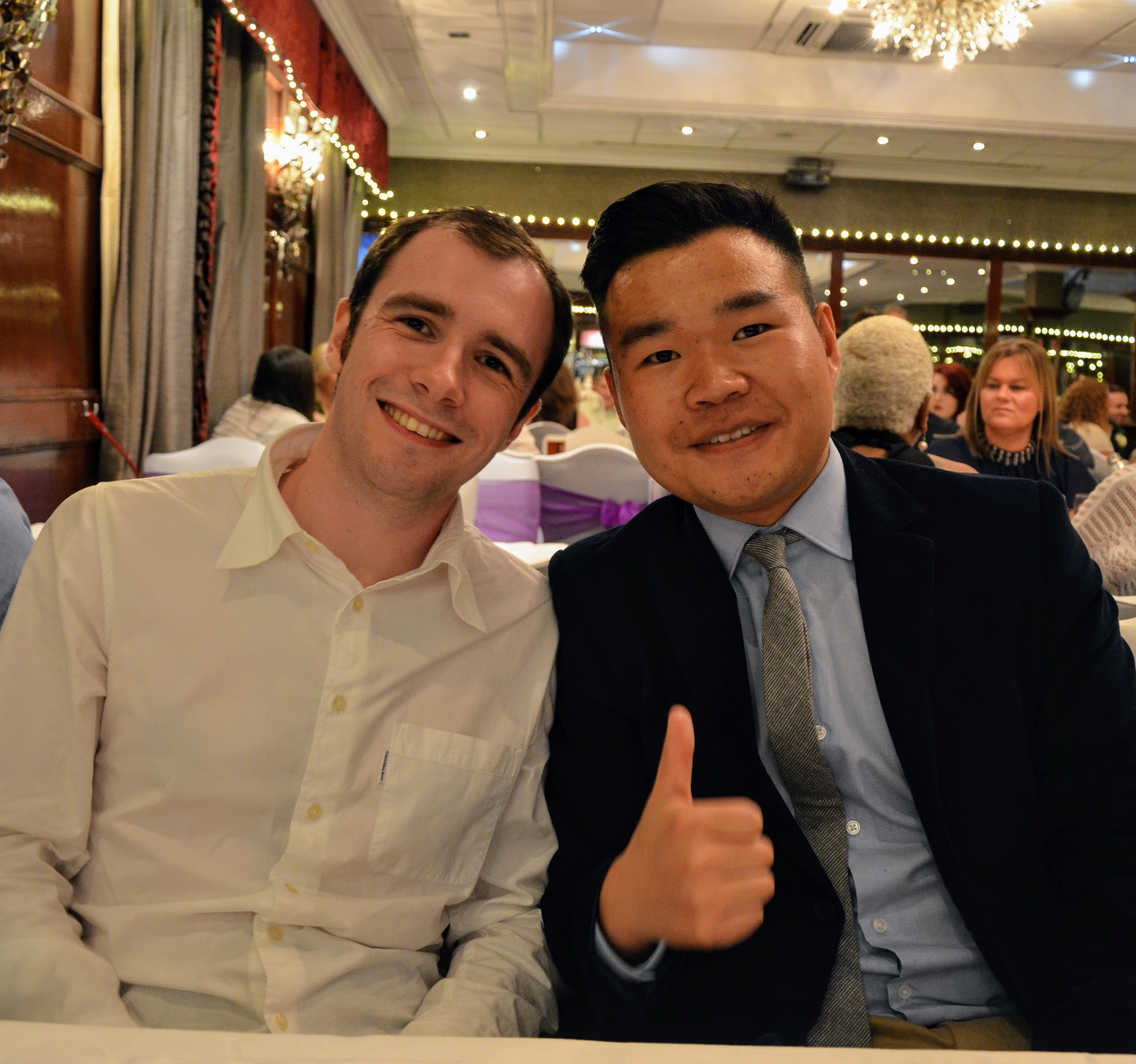
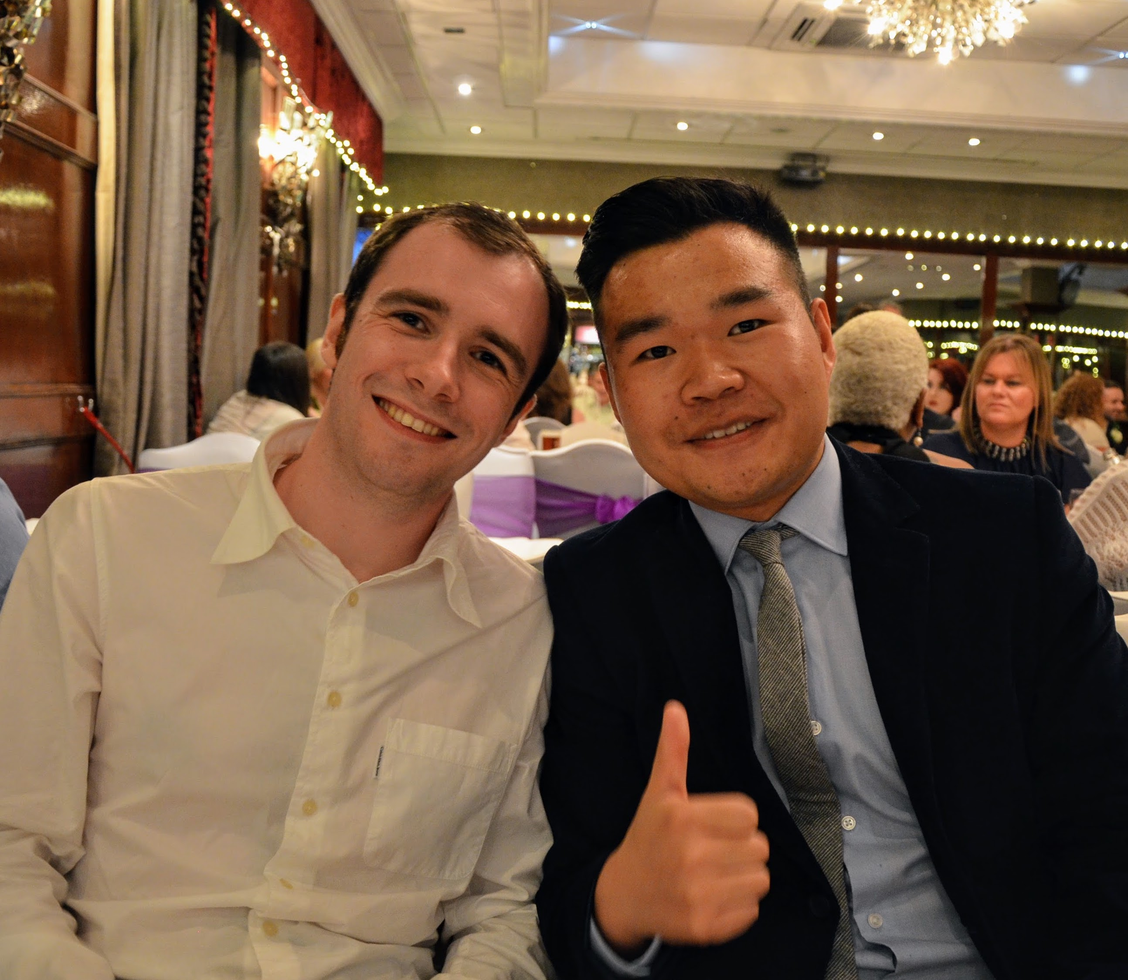
Update about page and profile image

diff --git a/_pages/about.md b/_pages/about.md
@@ -8,8 +8,8 @@ profile:
   align: right
   image: prof_pic.jpg
   address: >
-    <p>High-tech Incubator</p>
-    <p>1480 North Tianfu Avenue</p>
+    <p>High-tech Industry Incubation Park</p>
+    <p>No.1480, North Tianfu Avenue</p>
     <p>Chengdu, 610000</p>
 
 news: true  # includes a list of news items
